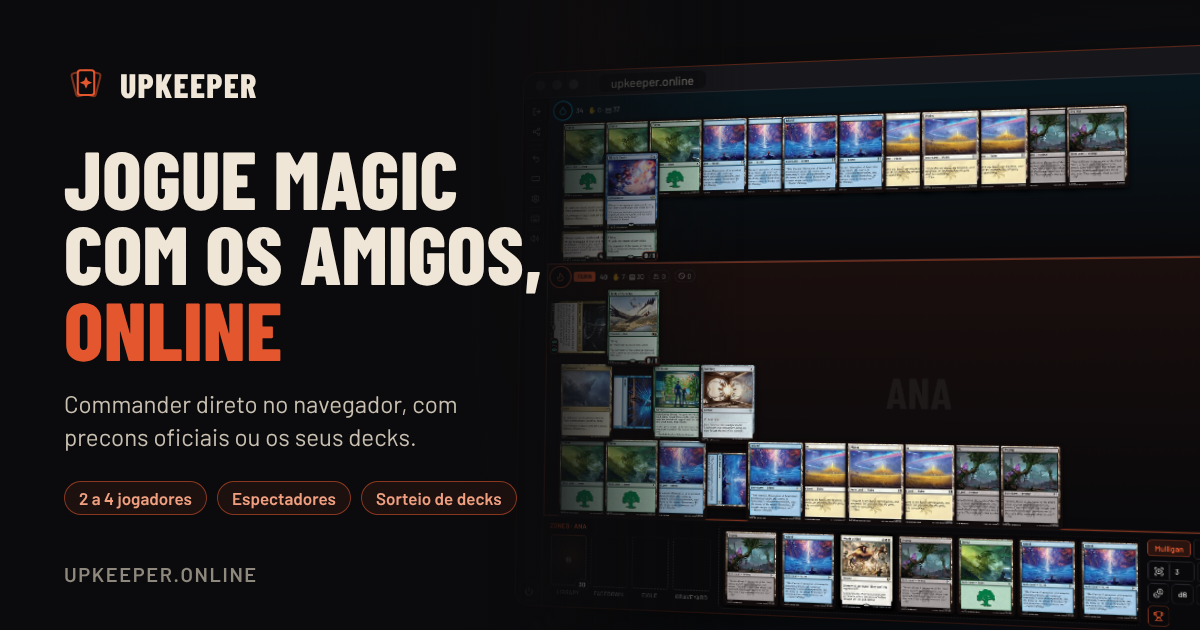
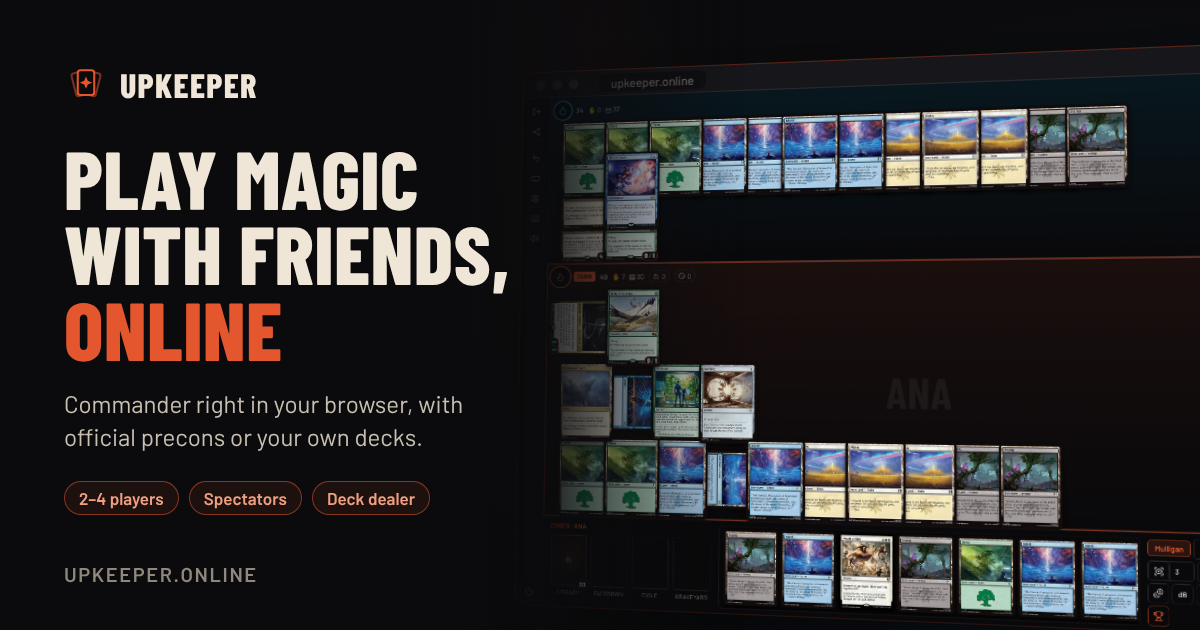
Prévia do link em inglês

diff --git a/frontend/index.html b/frontend/index.html
@@ -19,8 +19,8 @@
     <meta property="og:description" content="Play Commander online with your friends, right in the browser. And deal the decks at random." />
     <meta property="og:type" content="website" />
     <meta property="og:site_name" content="Upkeeper" />
-    <meta property="og:locale" content="pt_BR" />
-    <meta property="og:locale:alternate" content="en_US" />
+    <meta property="og:locale" content="en_US" />
+    <meta property="og:locale:alternate" content="pt_BR" />
     <meta property="og:image" content="%SITE_URL%/og-upkeeper.png" />
     <meta property="og:image:width" content="1200" />
     <meta property="og:image:height" content="630" />
